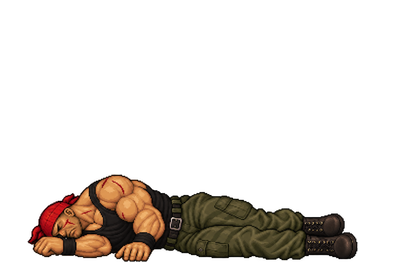
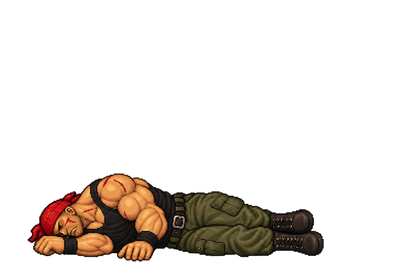
Shorten Crusher prone legs toward two-thirds of original length

Changed region(s): [[0.06, 0.6, 0.9, 0.9429]]

diff --git a/CRUSHER_DOWN_CORRECTION.md b/CRUSHER_DOWN_CORRECTION.md
@@ -7,3 +7,5 @@ Main crusher_v1 atlas cell 19 replaced with an authored anatomical correction. O
 Validation: CRUSHER_DOWN_MOTION_CHECK failures=[]; actual down/wake-up flow in both facings; fixed scale/origin and hurtbox restored. CRUSHER_DOWN_VISUAL_EXPORT_OK; standing/down screenshots in both facings inspected. Stage 1 regression result recorded separately. These are scripted runtime/rendered checks, not manual smartphone play or public release.
 
 Dedicated dive-kick implementation is still uncommitted and under validation; excluded from this correction commit.
+
+User rejected the first subtle correction. Superseded by crusher_down_two_thirds.png: waist-to-boot span targets roughly two-thirds of original; fixed upper-body packing scale retained. Full lying silhouette around 295px instead of original 346px. Stage 1 regression failures=[] before this second art-only correction.
